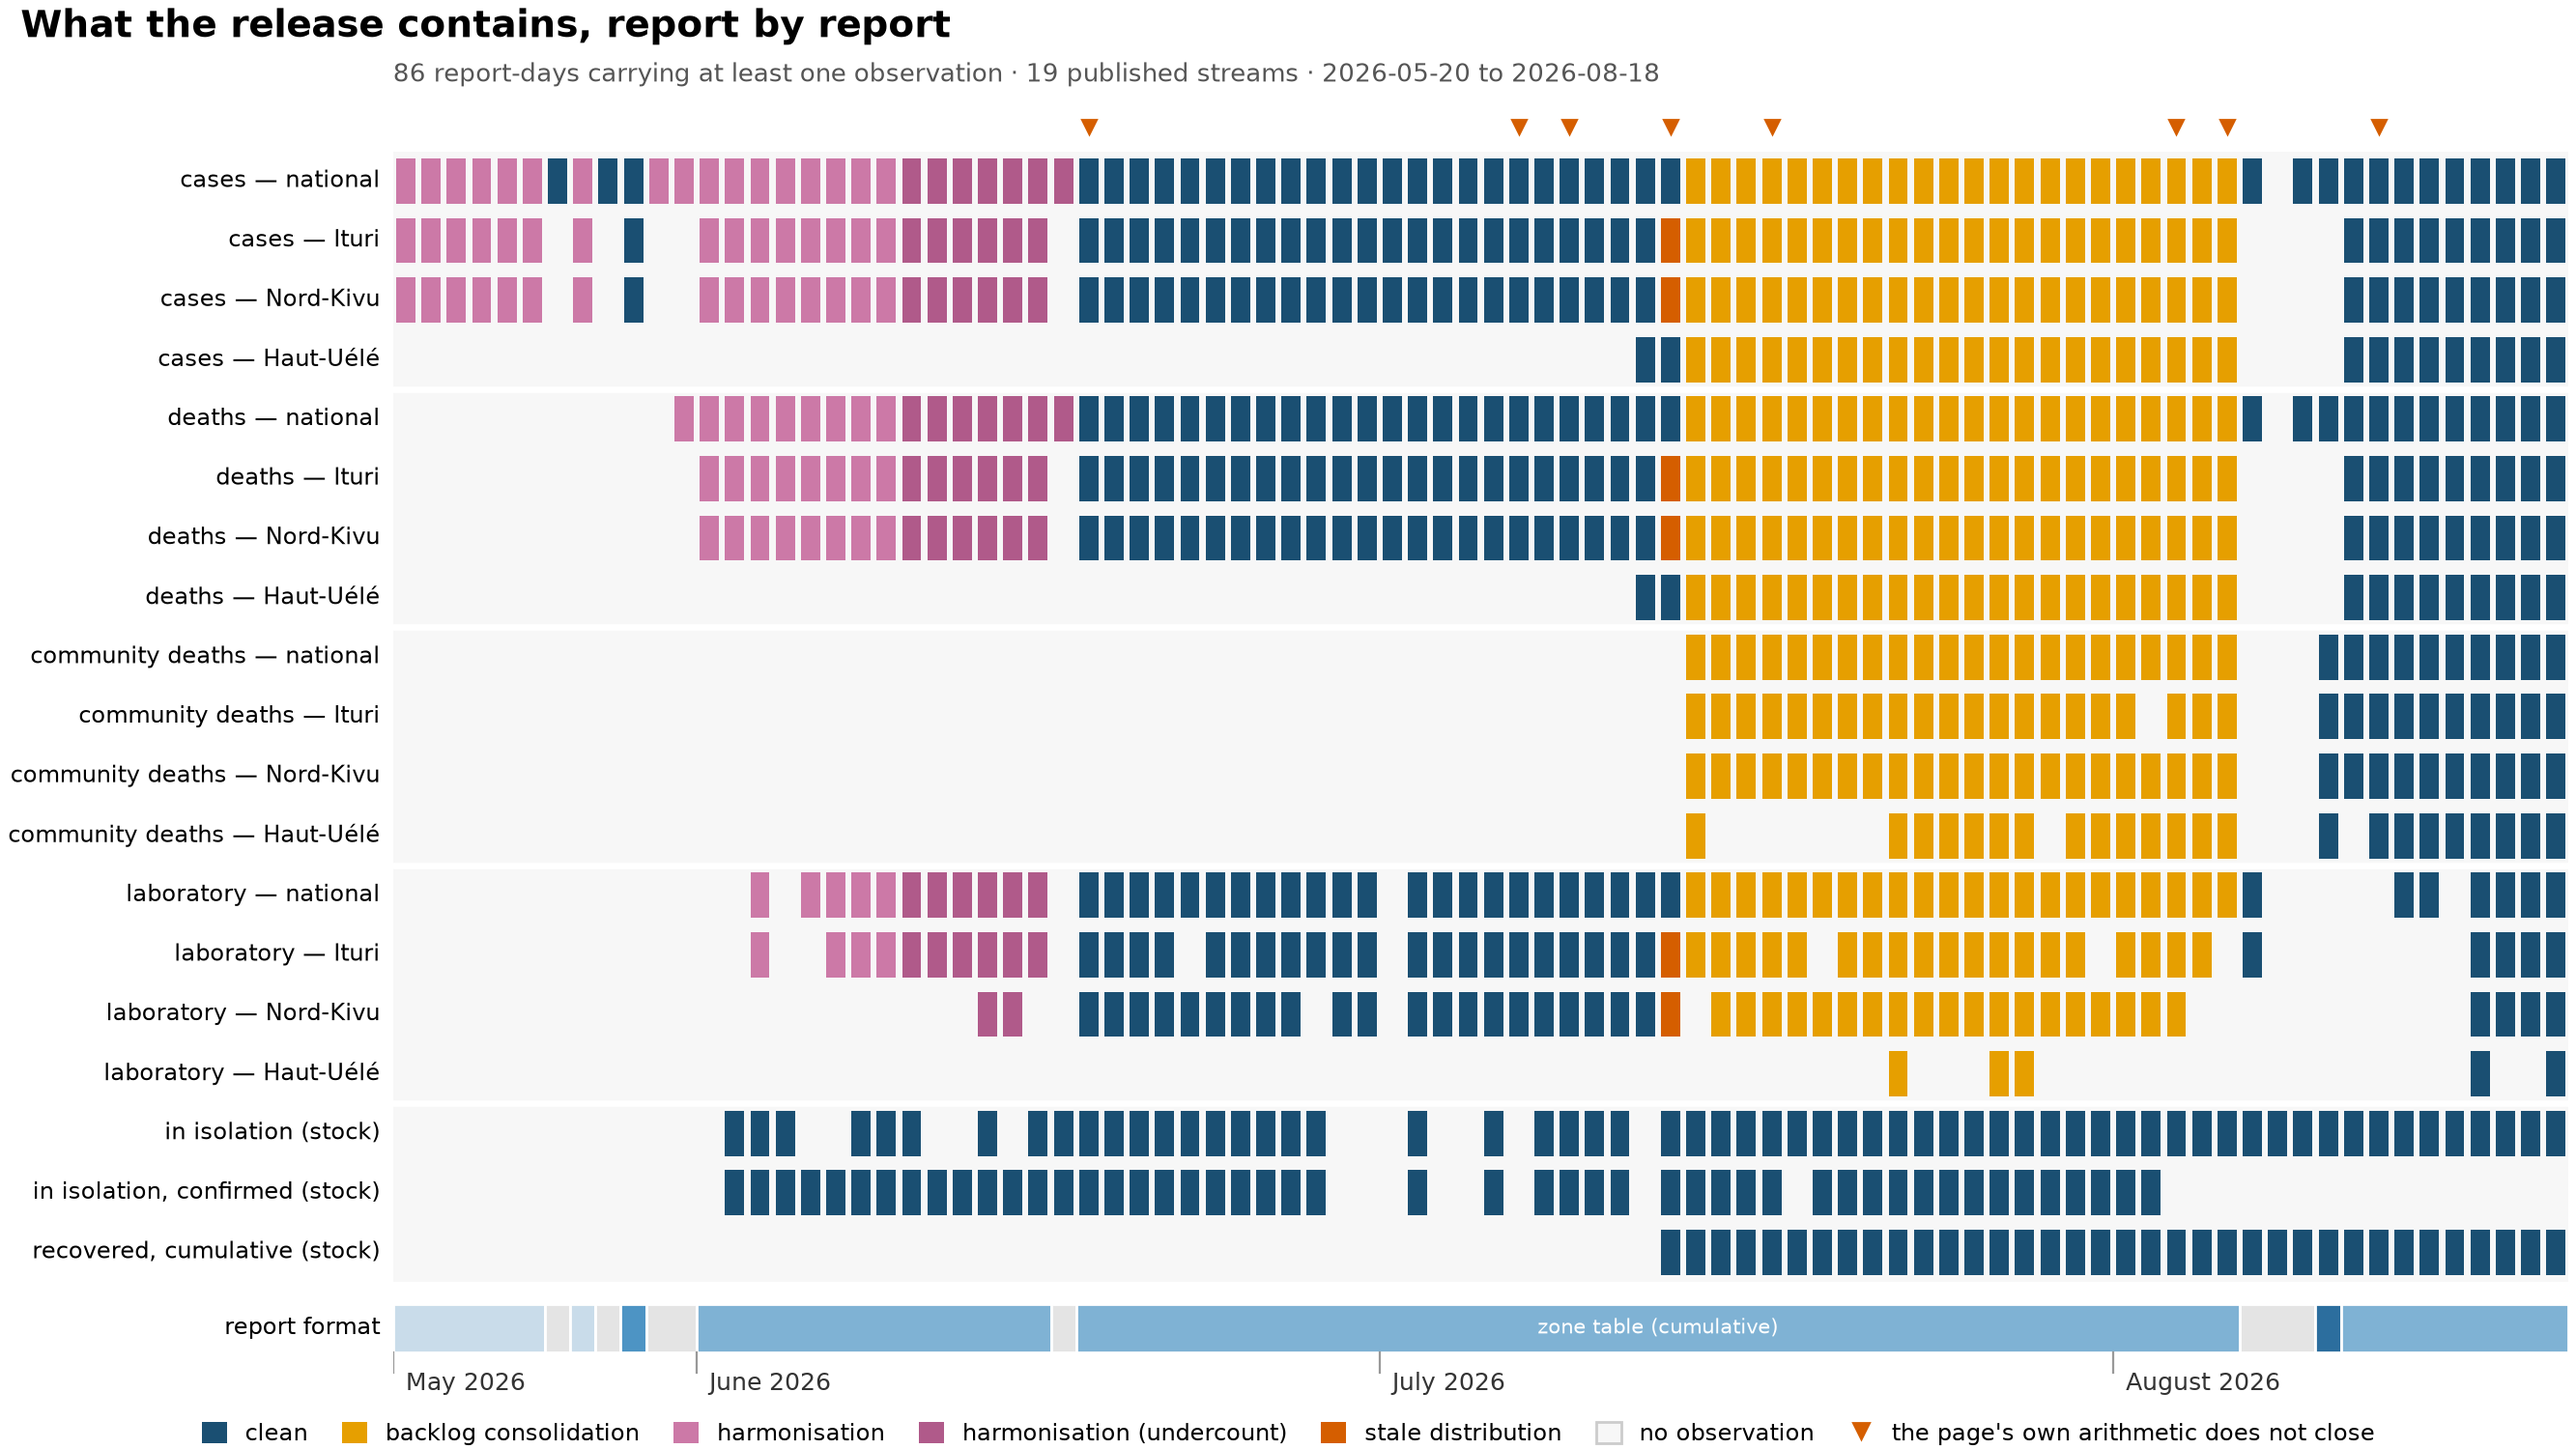
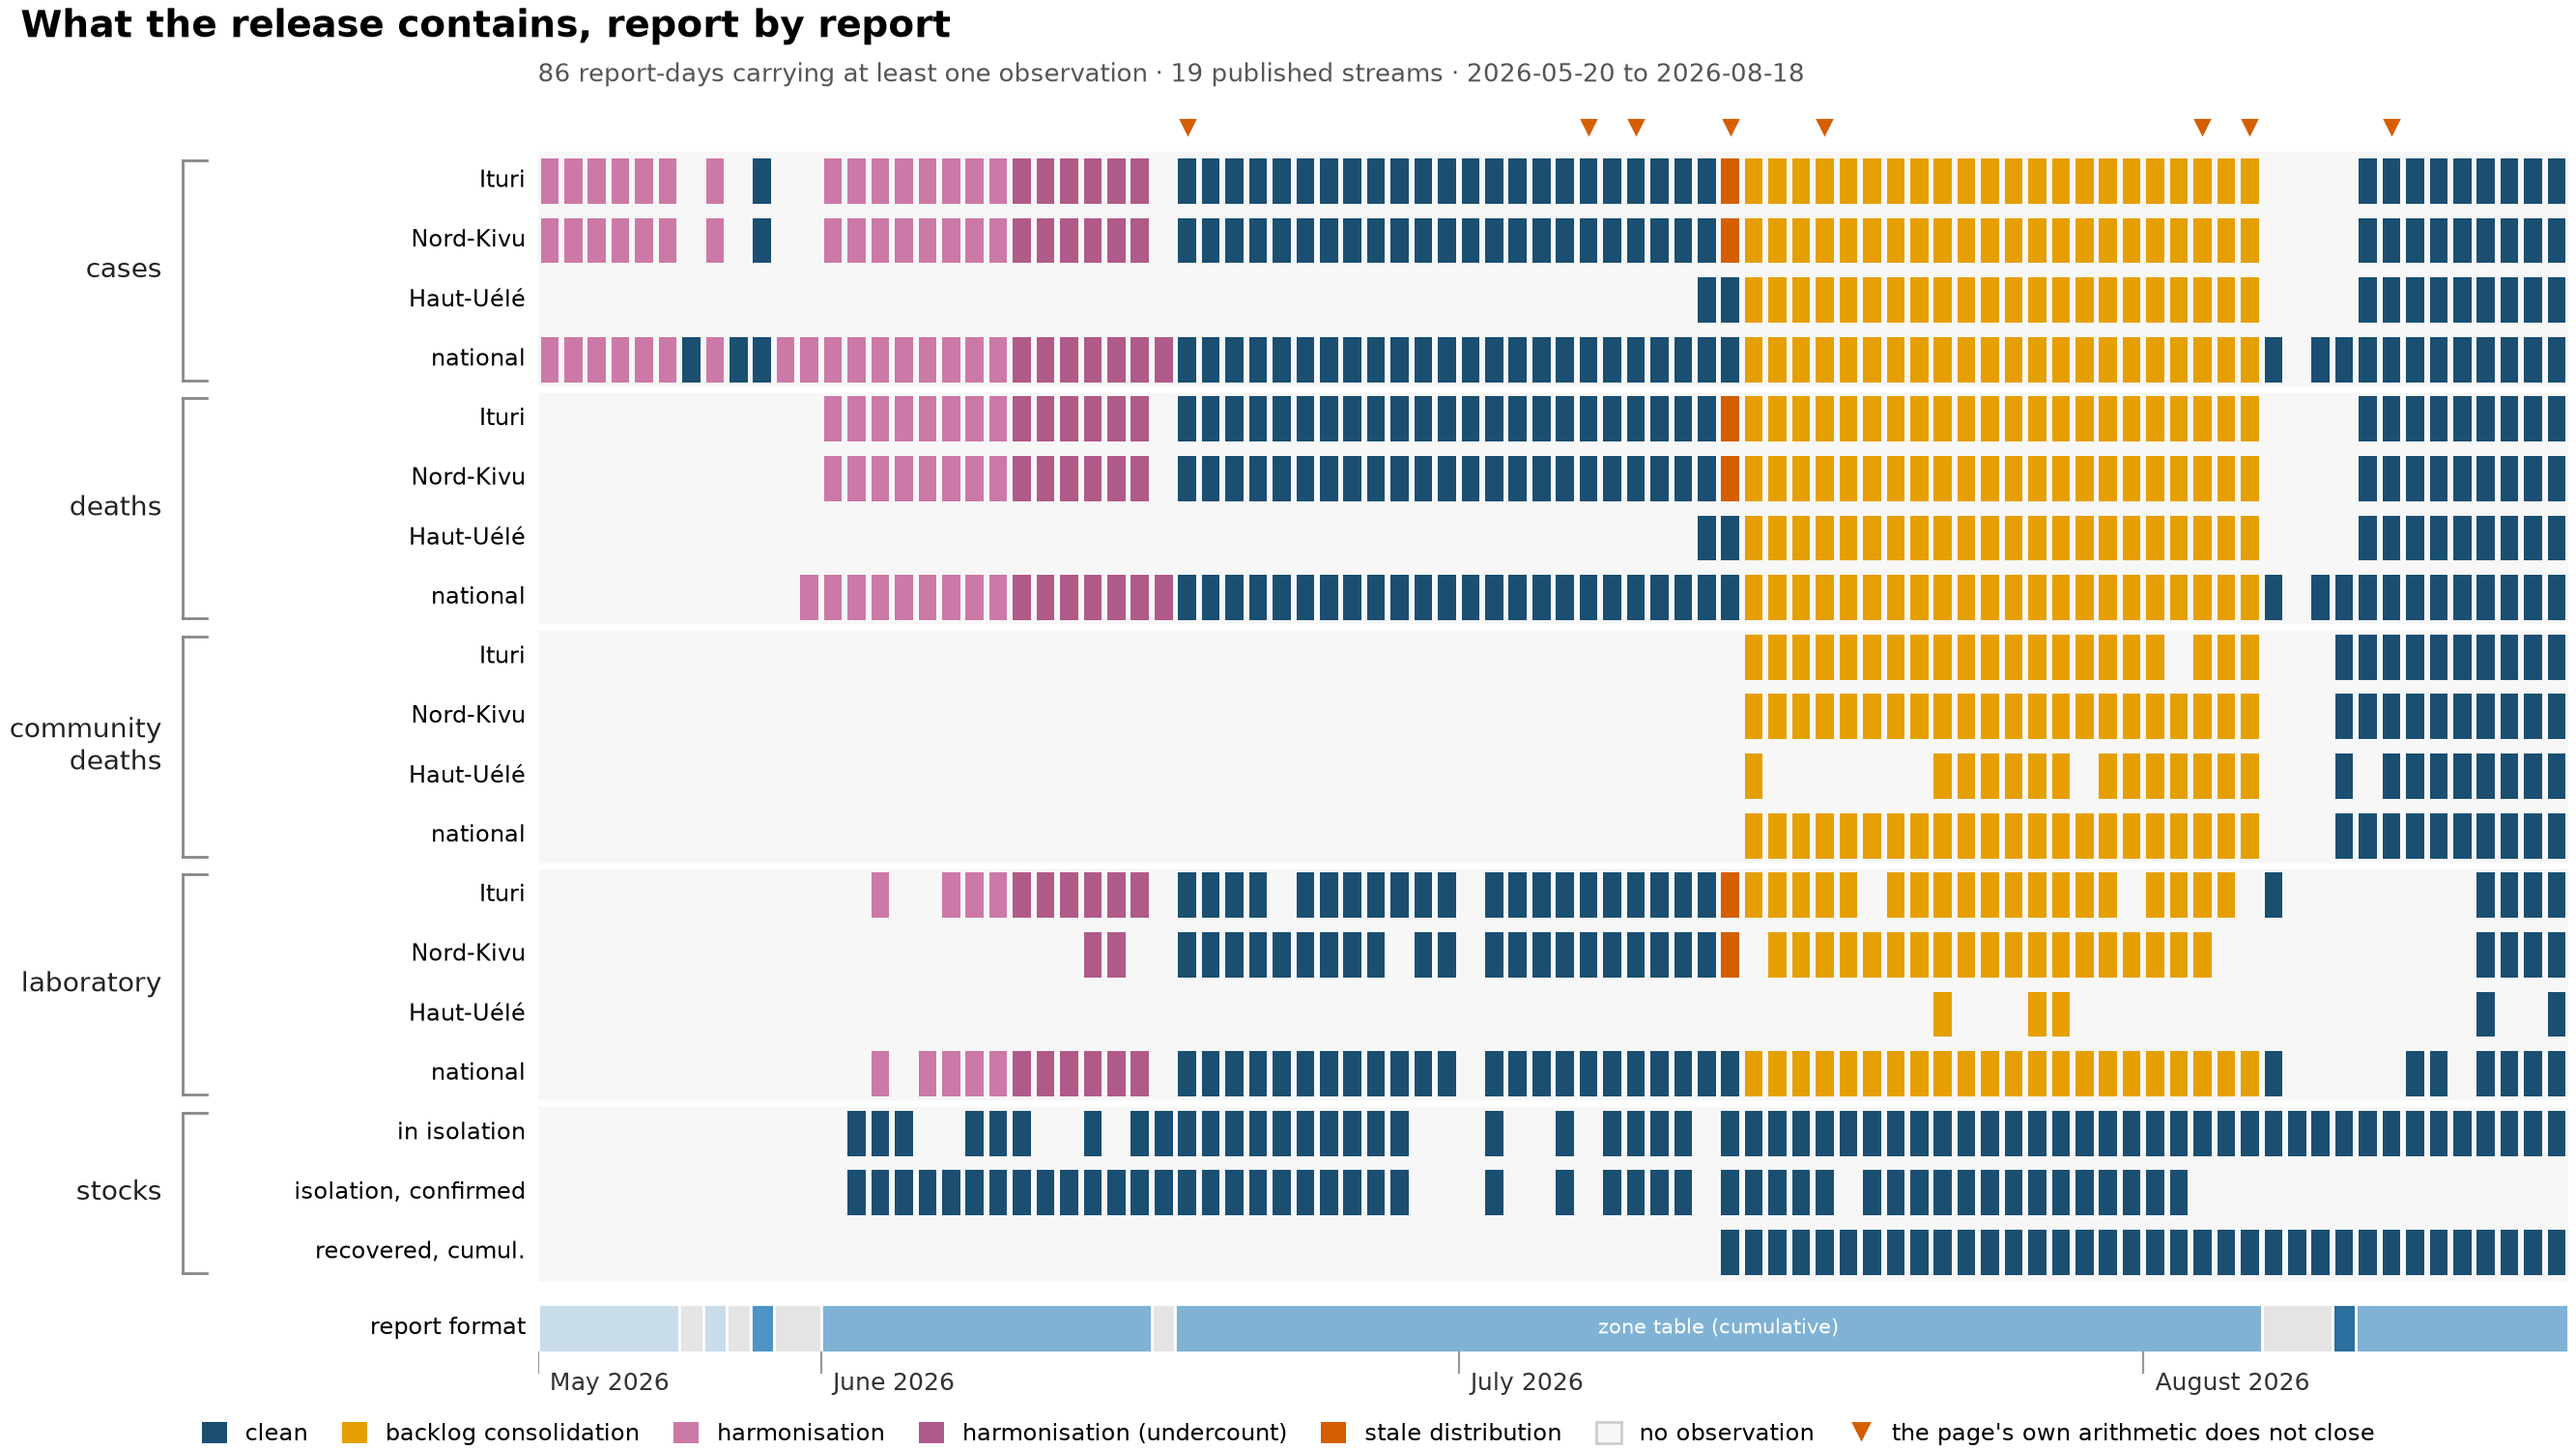
release_grid: group the rows by quantity, national beneath its provinces
Rows are now grouped by quantity with a bracket per group, so the group name
is stated once instead of prefixing all nineteen labels. Within each group
the national row sits LAST, beneath its provinces: it is their total, and the
eye should read the parts and then the sum.

RELEASE_GROUPS is the single source of row order; RELEASE_ROWS is derived
from it, so the registry's declared dependency set cannot drift from the
grouping.

Claude-Session: https://claude.ai/code/session_015tkmBJ2UNKTmshByKopqW2

diff --git a/scripts/plot_figures.py b/scripts/plot_figures.py
@@ -159,29 +159,46 @@ def draw_availability(inputs: dict[str, Path], out: Path) -> None:
     plt.close(fig)
 
 
-#: The released daily streams, in the order a reader should scan them, with
-#: the display label. Stocks come last because they are instants, not flows.
-RELEASE_ROWS = [
-    ("cases_daily_national", "cases — national"),
-    ("cases_daily_ituri", "cases — Ituri"),
-    ("cases_daily_nord_kivu", "cases — Nord-Kivu"),
-    ("cases_daily_haut_uele", "cases — Haut-Uélé"),
-    ("deaths_daily_national", "deaths — national"),
-    ("deaths_daily_ituri", "deaths — Ituri"),
-    ("deaths_daily_nord_kivu", "deaths — Nord-Kivu"),
-    ("deaths_daily_haut_uele", "deaths — Haut-Uélé"),
-    ("community_deaths_daily_national", "community deaths — national"),
-    ("community_deaths_daily_ituri", "community deaths — Ituri"),
-    ("community_deaths_daily_nord_kivu", "community deaths — Nord-Kivu"),
-    ("community_deaths_daily_haut_uele", "community deaths — Haut-Uélé"),
-    ("lab_daily_national", "laboratory — national"),
-    ("lab_daily_ituri", "laboratory — Ituri"),
-    ("lab_daily_nord_kivu", "laboratory — Nord-Kivu"),
-    ("lab_daily_haut_uele", "laboratory — Haut-Uélé"),
-    ("patients_isolated", "in isolation (stock)"),
-    ("patients_isolated_confirmed", "in isolation, confirmed (stock)"),
-    ("cumul_recovered", "recovered, cumulative (stock)"),
+#: The released streams, grouped by quantity. WITHIN A GROUP THE NATIONAL ROW
+#: SITS LAST, i.e. beneath its provinces, because it is their total: the eye
+#: reads the parts and then the sum, the same order the page prints them.
+#: The group name is carried by a bracket rather than repeated in every row
+#: label. Stocks come last because they are instants, not flows.
+RELEASE_GROUPS = [
+    ("cases", [
+        ("cases_daily_ituri", "Ituri"),
+        ("cases_daily_nord_kivu", "Nord-Kivu"),
+        ("cases_daily_haut_uele", "Haut-Uélé"),
+        ("cases_daily_national", "national"),
+    ]),
+    ("deaths", [
+        ("deaths_daily_ituri", "Ituri"),
+        ("deaths_daily_nord_kivu", "Nord-Kivu"),
+        ("deaths_daily_haut_uele", "Haut-Uélé"),
+        ("deaths_daily_national", "national"),
+    ]),
+    ("community\ndeaths", [
+        ("community_deaths_daily_ituri", "Ituri"),
+        ("community_deaths_daily_nord_kivu", "Nord-Kivu"),
+        ("community_deaths_daily_haut_uele", "Haut-Uélé"),
+        ("community_deaths_daily_national", "national"),
+    ]),
+    ("laboratory", [
+        ("lab_daily_ituri", "Ituri"),
+        ("lab_daily_nord_kivu", "Nord-Kivu"),
+        ("lab_daily_haut_uele", "Haut-Uélé"),
+        ("lab_daily_national", "national"),
+    ]),
+    ("stocks", [
+        ("patients_isolated", "in isolation"),
+        ("patients_isolated_confirmed", "isolation, confirmed"),
+        ("cumul_recovered", "recovered, cumul."),
+    ]),
 ]
+
+#: Flattened, top to bottom -- the registry's dependency set is derived from
+#: this, so the grouping above stays the single source of row order.
+RELEASE_ROWS = [r for _, group in RELEASE_GROUPS for r in group]
 
 #: What a published cell can be. Status, not identity, so these are a reserved
 #: status ramp and every one is labelled in the legend -- never colour alone.
@@ -272,9 +289,31 @@ def draw_release_grid(inputs: dict[str, Path], out: Path) -> None:
         ax.text(-0.006, yi + 0.5, label, transform=ax.get_yaxis_transform(),
                 ha="right", va="center", fontsize=8.5)
 
-    # group separators, so the eye reads families rather than 19 rows
-    for boundary in (3, 7, 11, 15):
-        ax.axhline(ny - 1 - boundary, color="#ffffff", linewidth=2.4)
+    # --- group brackets ---------------------------------------------------
+    # A bracket per quantity, spanning its rows, so the group name is stated
+    # once instead of prefixing every label. Drawn in (axes-x, data-y) so the
+    # bracket keeps its distance from the axis whatever the label widths.
+    tr = ax.get_yaxis_transform()
+    present = [k for k, _ in rows]
+    i = 0
+    for gname, group in RELEASE_GROUPS:
+        members = [k for k, _ in group if k in present]
+        if not members:
+            continue
+        i0, i1 = i, i + len(members)
+        i = i1
+        y0, y1 = ny - i1, ny - i0          # rows are drawn top-down from ny
+        xb, tick = -0.175, 0.012
+        ax.plot([xb, xb], [y0 + 0.15, y1 - 0.15], transform=tr,
+                color="#888888", linewidth=1.0, clip_on=False)
+        for yy in (y0 + 0.15, y1 - 0.15):
+            ax.plot([xb, xb + tick], [yy, yy], transform=tr,
+                    color="#888888", linewidth=1.0, clip_on=False)
+        ax.text(xb - 0.010, (y0 + y1) / 2, gname, transform=tr,
+                ha="right", va="center", fontsize=10, color="#222222")
+        # a hairline between groups, so the bands read as families
+        if i1 < ny:
+            ax.axhline(y0, color="#ffffff", linewidth=2.4)
 
     ax.set_xlim(0, nx)
     ax.set_ylim(0, ny)
